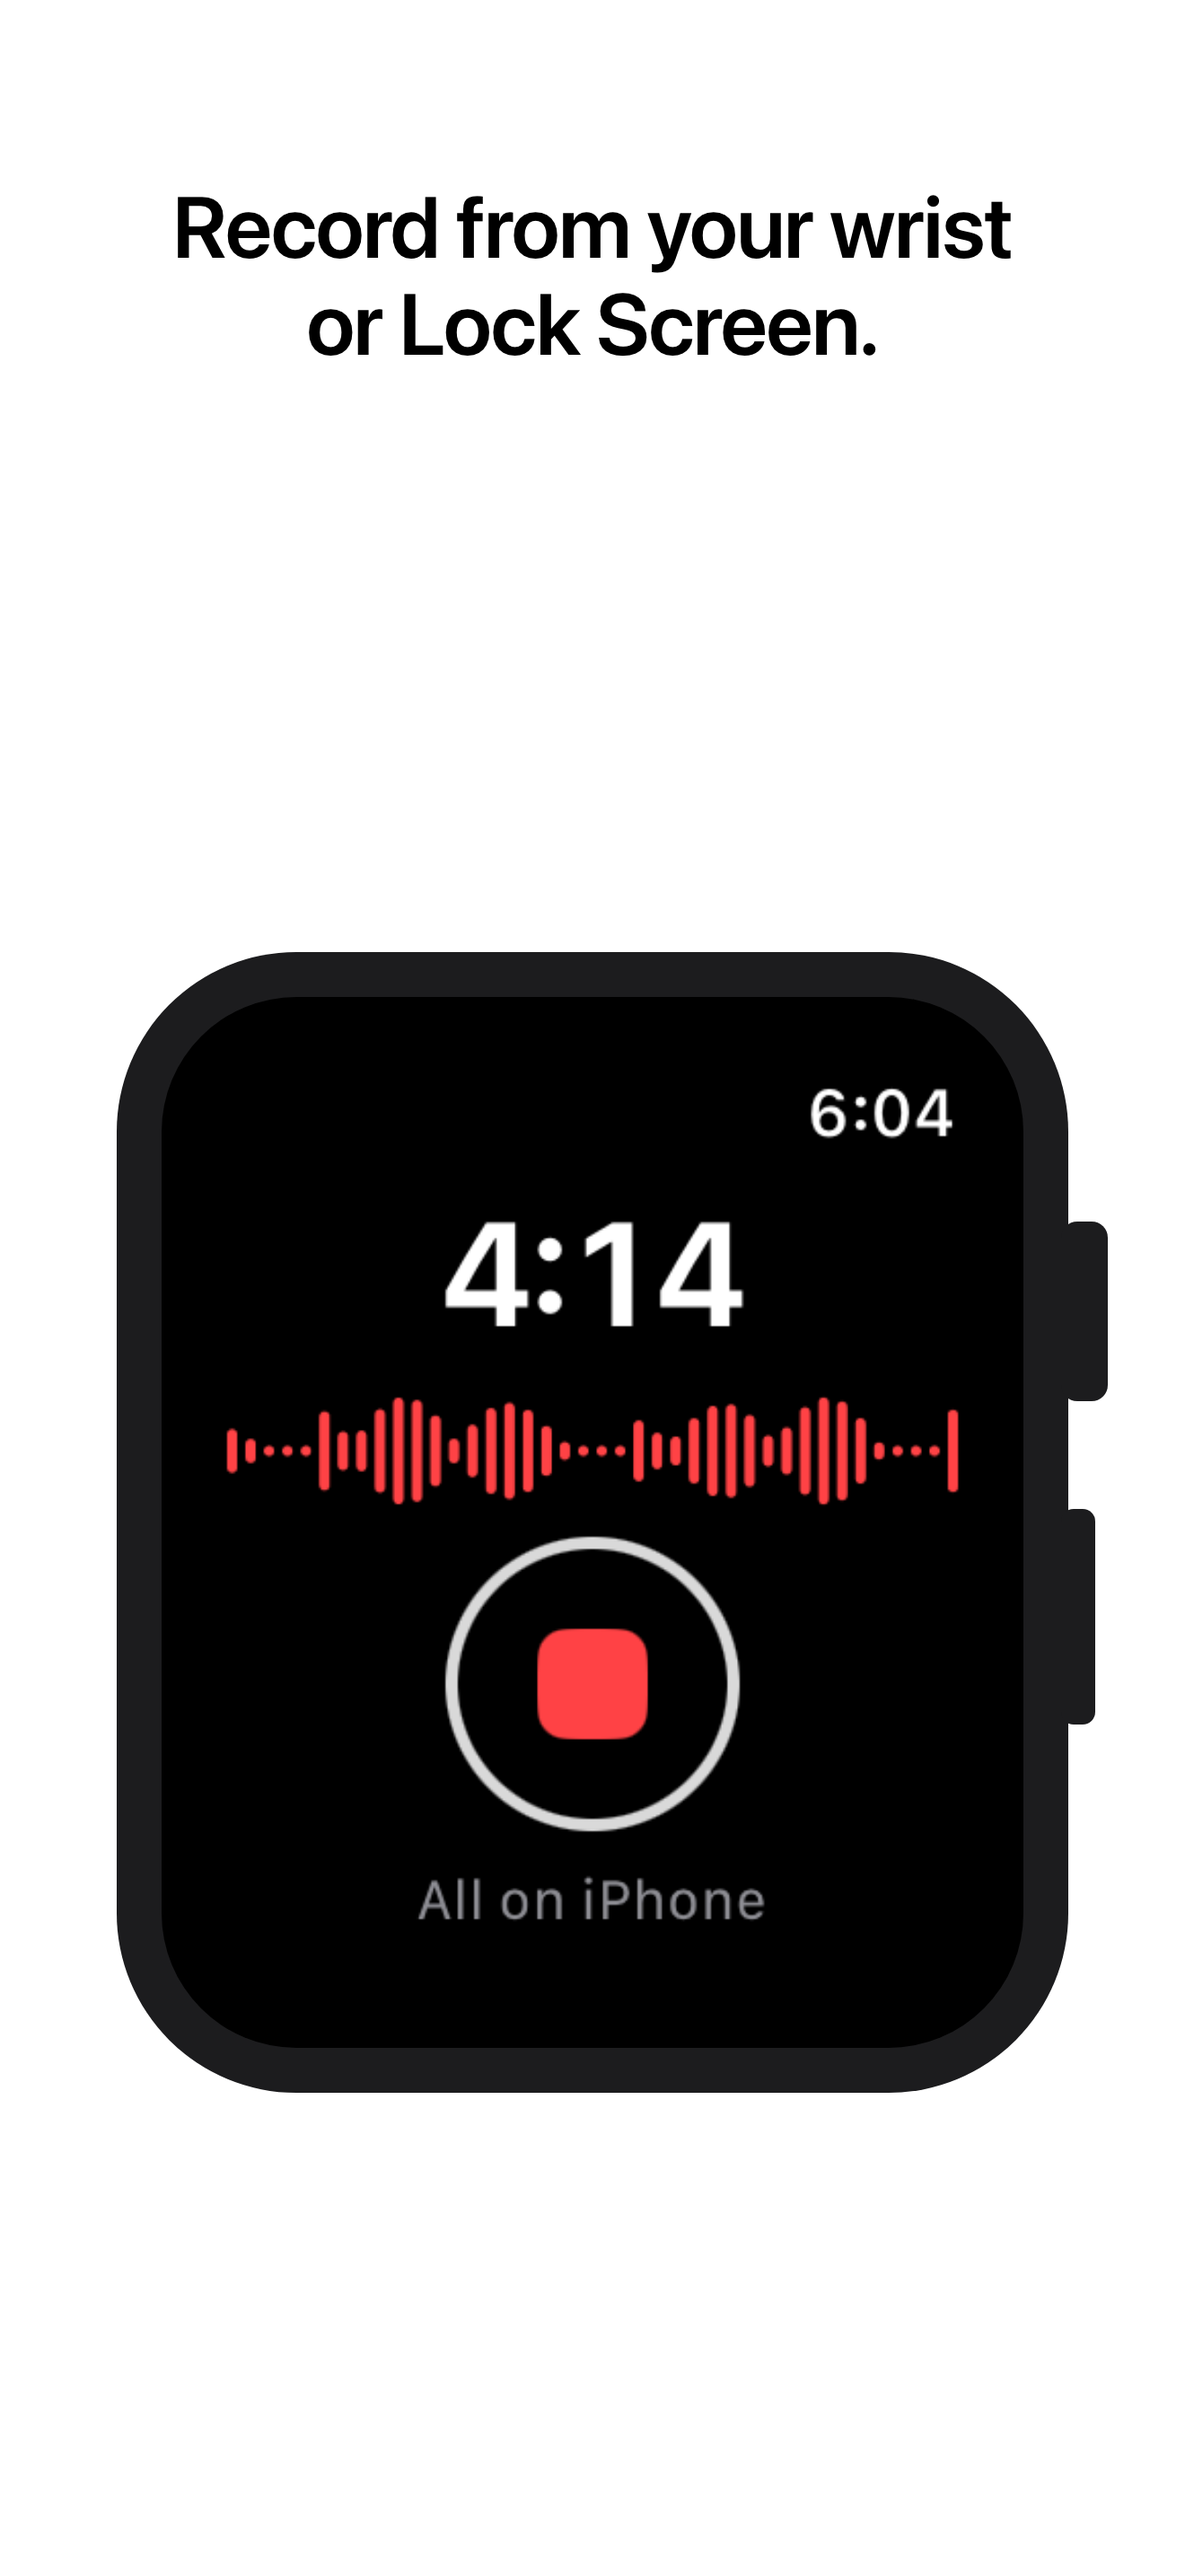
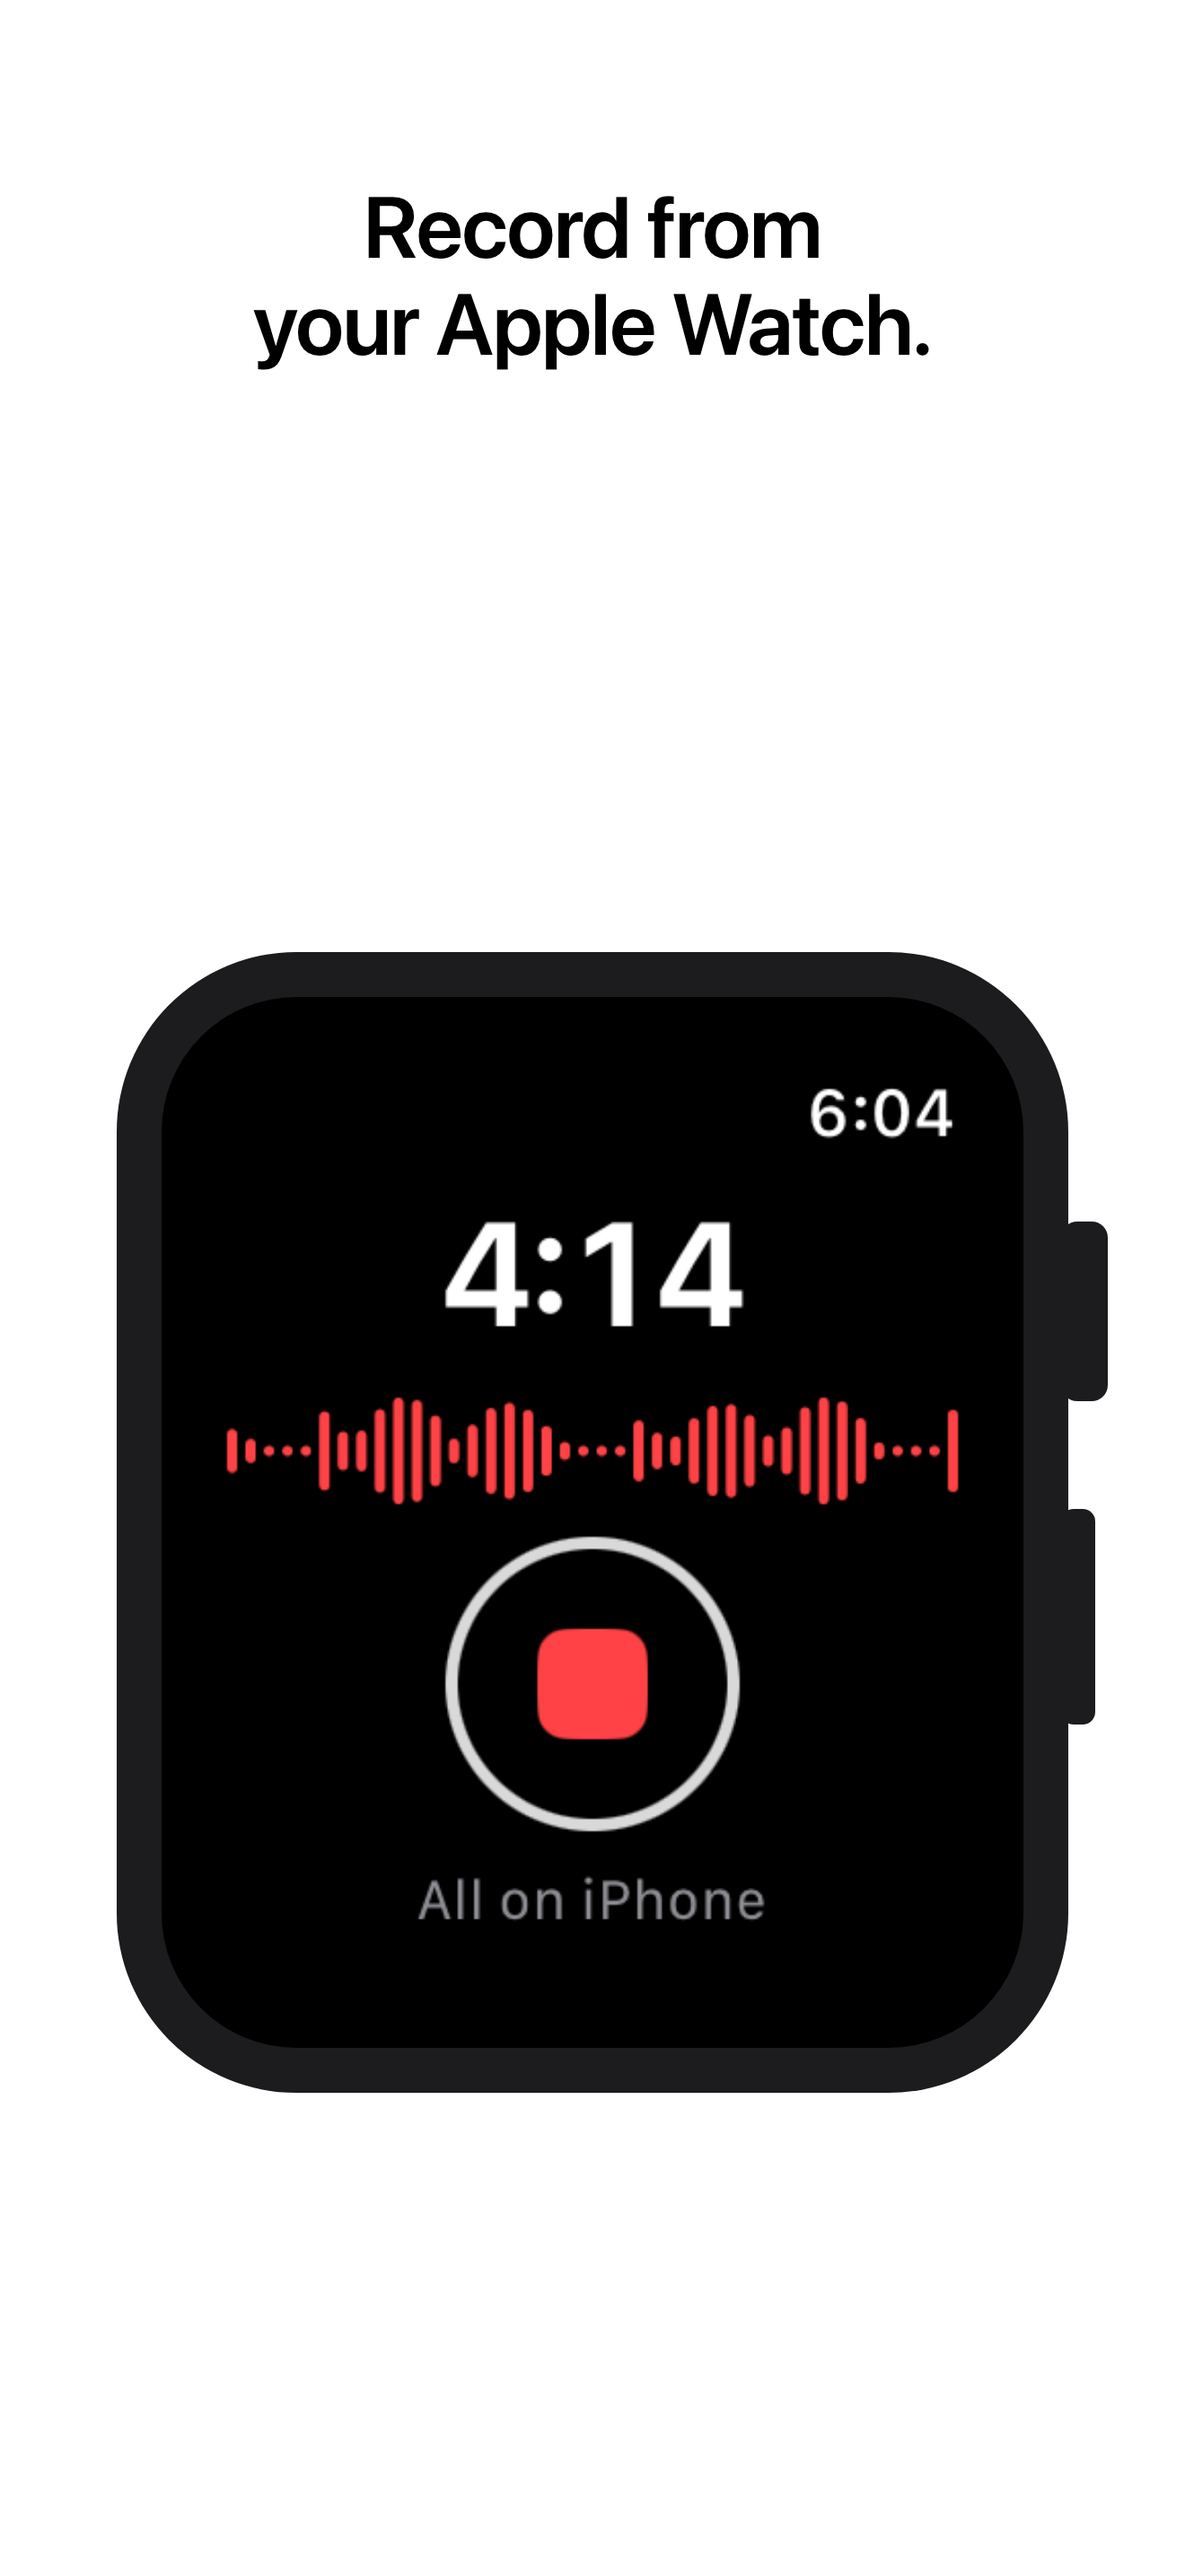
Screenshot 3's caption says what it shows: recording from the Apple Watch

Changed region(s): [[0.1553, 0.0621, 0.8697, 0.1552]]

diff --git a/design/app-store/screens.html b/design/app-store/screens.html
@@ -63,7 +63,7 @@
   const images = {
     "iphone-1": { caption: "Tap record.\nSona writes it down.", shot: "captures/recording.png" },
     "iphone-2": { caption: "Transcribed on your iPhone,\nnever uploaded.", shot: "captures/note.png" },
-    "iphone-3": { caption: "Record from your wrist\nor Lock Screen.", watch: "captures/watch-recording.png" },
+    "iphone-3": { caption: "Record from\nyour Apple Watch.", watch: "captures/watch-recording.png" },
     "iphone-4": { caption: "Plain Markdown files\nin your iCloud.", shot: "captures/home-dark.png", dark: true },
     "iphone-5": { caption: "Find any note\nby day or place.", shot: "captures/place.png" },
     "iphone-6": { caption: "No account. No ads.\nNo tracking.", shot: "captures/welcome.png" },
